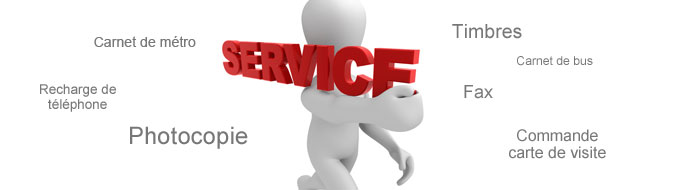
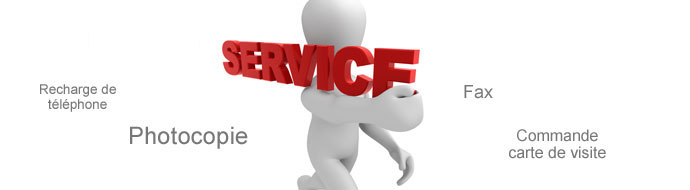
modification services

Changed region(s): [[0.1217, 0.1842, 0.3043, 0.2632], [0.6391, 0.1316, 0.7609, 0.2105], [0.7304, 0.2895, 0.8826, 0.3421]]

diff --git a/photocopie-fax-blessis-bouchard.html b/photocopie-fax-blessis-bouchard.html
@@ -113,9 +113,7 @@
 <p>&nbsp;</p>
 <ul>
 <li>passer un&nbsp;<strong>fax</strong>&nbsp;(de 1 &agrave; 3 &euro;)</li>
-<li>faire une&nbsp;<strong>photocopie</strong>&nbsp;(0.10 &euro;)</li>
-<li>acheter un&nbsp;<strong>carnet de timbres</strong>&nbsp;(7.20 &euro; le carnet de 12)</li>
-<li>acheter un&nbsp;<strong>carnet de bus et m&eacute;tro</strong>&nbsp;(12.50 &euro; les 10 tickets)</li>
+<li>faire une&nbsp;<strong>photocopie</strong>&nbsp;(A4: 0.10 &euro; noir et blanc, 0.50 &euro; couleur - A3: 0.25 &euro; noir et blanc, 1 &euro; couleur)</li>
 <li>commander vos&nbsp;<strong>cartes de visite</strong>&nbsp;en noir et blanc ou en couleur (d&eacute;lai de 24 &agrave; 48 heures)</li>
 </ul>
 <br />
